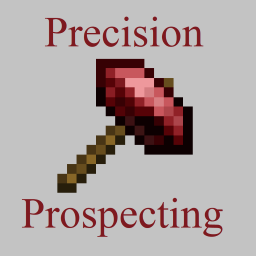
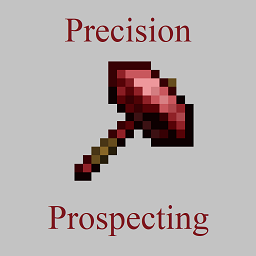
Vexxed Pack
-Ship a built-in resource pack in the style of Vexxed Visuals
-Some book fixes
-Redo logo to match current design
-Move unfired molds to the proper tag

Changed region(s): [[0.0938, 0.2188, 0.875, 0.9375], [0.1875, 0.0625, 0.8125, 0.1875]]

diff --git a/src/main/java/com/notenoughmail/precisionprospecting/integration/vexxedvisuals/CommonEvents.java b/src/main/java/com/notenoughmail/precisionprospecting/integration/vexxedvisuals/CommonEvents.java
@@ -1,0 +1,36 @@
+package com.notenoughmail.precisionprospecting.integration.vexxedvisuals;
+
+import com.notenoughmail.precisionprospecting.PrecisionProspecting;
+import net.minecraft.resources.ResourceLocation;
+import net.minecraft.server.packs.PackType;
+import net.minecraft.server.packs.repository.Pack;
+import net.minecraft.server.packs.repository.PackSource;
+import net.minecraftforge.event.AddPackFindersEvent;
+import net.minecraftforge.eventbus.api.SubscribeEvent;
+import net.minecraftforge.fml.ModList;
+import net.minecraftforge.fml.common.Mod.EventBusSubscriber;
+import net.minecraftforge.forgespi.language.IModFileInfo;
+import net.minecraftforge.forgespi.locating.IModFile;
+
+@EventBusSubscriber
+public class CommonEvents {
+
+    @EventBusSubscriber(bus = EventBusSubscriber.Bus.MOD)
+    public static class ModBusEvents {
+
+        @SubscribeEvent
+        public static void addPackFinders(AddPackFindersEvent event) {
+            if (event.getPackType() == PackType.CLIENT_RESOURCES) {
+                IModFileInfo modFileInfo = ModList.get().getModFileById(PrecisionProspecting.MODID);
+                if (modFileInfo == null) {
+                    PrecisionProspecting.LOGGER.error("Could not find Precision Prospecting mod file info; built-in resource packs will be missing");
+                    return;
+                }
+                IModFile modFile = modFileInfo.getFile();
+                event.addRepositorySource((consumer, constructor) -> {
+                    consumer.accept(Pack.create(new ResourceLocation(PrecisionProspecting.MODID, "vexxed_items").toString(), false, () -> new ModFilePackResources("Vexxed Visuals: Precision Prospecting", modFile, "resourcepacks/vexxed_compat"), constructor, Pack.Position.TOP, PackSource.DEFAULT));
+                });
+            }
+        }
+    }
+}

diff --git a/src/main/java/com/notenoughmail/precisionprospecting/integration/vexxedvisuals/ModFilePackResources.java b/src/main/java/com/notenoughmail/precisionprospecting/integration/vexxedvisuals/ModFilePackResources.java
@@ -1,0 +1,26 @@
+package com.notenoughmail.precisionprospecting.integration.vexxedvisuals;
+
+import net.minecraftforge.forgespi.locating.IModFile;
+import net.minecraftforge.resource.PathResourcePack;
+
+import java.nio.file.Path;
+
+public class ModFilePackResources extends PathResourcePack {
+
+    protected final IModFile modFile;
+    protected final String sourcePath;
+
+    public ModFilePackResources(String packName, IModFile modFile, String sourcePath) {
+        super(packName, modFile.findResource(sourcePath));
+        this.modFile = modFile;
+        this.sourcePath = sourcePath;
+    }
+
+    @Override
+    protected Path resolve(String... paths) {
+        String[] allPaths = new String[paths.length + 1];
+        allPaths[0] = sourcePath;
+        System.arraycopy(paths, 0, allPaths, 1, paths.length);
+        return modFile.findResource(allPaths);
+    }
+}

diff --git a/src/main/java/com/notenoughmail/precisionprospecting/PrecisionProspecting.java b/src/main/java/com/notenoughmail/precisionprospecting/PrecisionProspecting.java
@@ -19,7 +19,7 @@ import org.slf4j.Logger;
 @Mod(PrecisionProspecting.MODID)
 public class PrecisionProspecting {
 
-    private static final Logger LOGGER = LogUtils.getLogger();
+    public static final Logger LOGGER = LogUtils.getLogger();
     public static final String MODID = "precisionprospecting";
     public static final String MOD_NAME = "Precision Prospecting";
 
